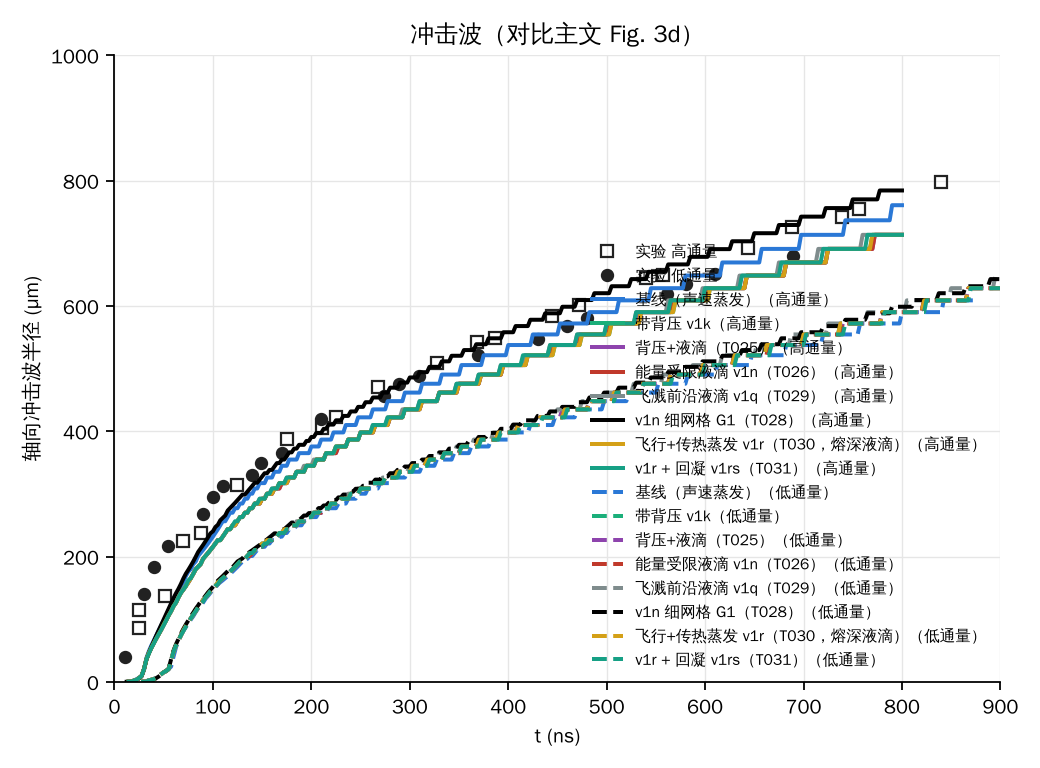
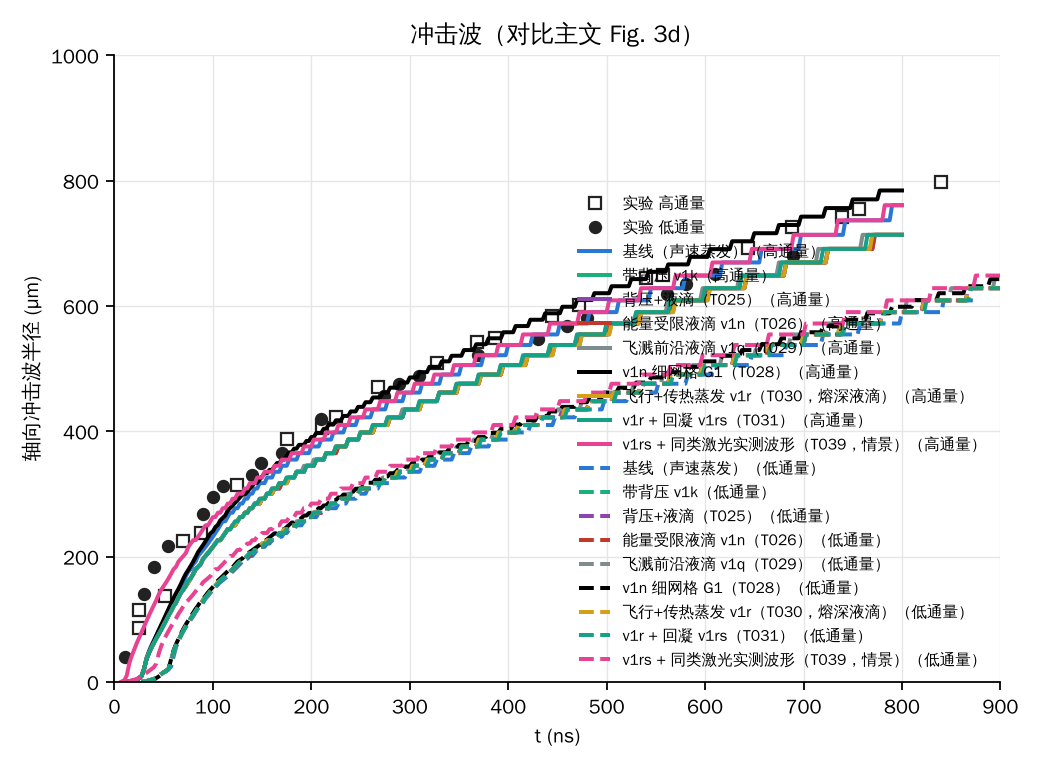
T039 high: waveform scenario rounds the plume (+24%) and explains most of the t0 offset; summary updated; figures with waveform row
Claude-Session: https://claude.ai/code/session_01FS7WDGPKzwdDyXZyPwrs24

diff --git a/docs/STATE.md b/docs/STATE.md
@@ -638,3 +638,6 @@ Updated: 2026-11-15
 - 03:35 T039 low_wf production (comparable-device waveform, seeded): ignition 40.0 ns against 54.5 ns (T031 v1rs), E_gas_abs at 150 ns 48.4 against 44.7 µJ (+8%). Ignition is earlier as expected, but the coupled energy hardly changes, so the waveform does not close the low-fluence deficit (about 3× is needed). PREREG expectation met. Imaging pending. T037 shifted low v1rs frames archived.
 - 05:10 T037 done: the four reported members were re-imaged with Δ = 28 ns. Figures *_t28.png drawn (frames, curves, shock). T039 low nominal imaging delivered; high and 28 ns imaging pending. T033: 10/18 imaging.
 - 05:35 T039 low imaging: L715/L280 0.137 against 0.100 (T031); σx 83 against 82; L210/L140 0.78 against 0.76 (experiment 1.26); shock ratio (Δ = 28) 1.26 against 1.31. The waveform scenario does not close the low-fluence gap. Draft morning summary in results/figures/overnight_1126_summary.md.
+- 06:35 T039 high (comparable-device waveform), same seed as T031: σz/σx 0.825 against 0.667 (+24%); zc 153 against 132 µm; L500/L300 0.385, L730/L300 0.192 (v1rs 0.424 / 0.220; experiment 0.107); σx 109 against 113 µm.
+  - Refitted shock offsets: high 7 ns (Gaussian 28 ns); low 36 ns (Gaussian 53 ns). The front-loaded waveform explains most of the t0 discrepancy physically and is the largest morphology gain so far. It is a scenario only, because the waveform is not the paper laser's.
+  - Data request: the measured YLPN 60 ns waveform.

diff --git a/results/figures/overnight_1126_summary.md b/results/figures/overnight_1126_summary.md
@@ -29,6 +29,12 @@
    - 表面温度上限取 0.85 时，v1rs 仍能点燃；v1n 在同样条件下熄灭。
    - 这两点都支持把 v1rs 作为正式报告模型。
 
+6. **高通量用实测波形情景（T039，06:30 刚出）效果明显：**
+   - 纵横比 0.825，v1rs 是 0.667，提高 24%，实验为 1.07；发光中心升到 153 µm，原来 132 µm。
+   - L730/L300 = 0.19，v1rs 0.22，实验 0.107。
+   - 更关键的是，用激波重新拟合，所需的时间偏移从 28 ns 缩小到 7 ns（低通量从 53 ns 缩小到 36 ns）。也就是说，前沿更陡的真实激光波形能从物理上解释大部分时间零点偏差，形貌也明显变圆。
+   - 这是迄今为止对形貌改善最大的一项。但它用的是同类激光器的波形，不是论文那台激光器的，所以仍只算情景。拿到论文激光器的实测波形，是最值得做的下一步。
+
 ## 二、新图（results/figures）
 
 | 文件 | 内容 |
